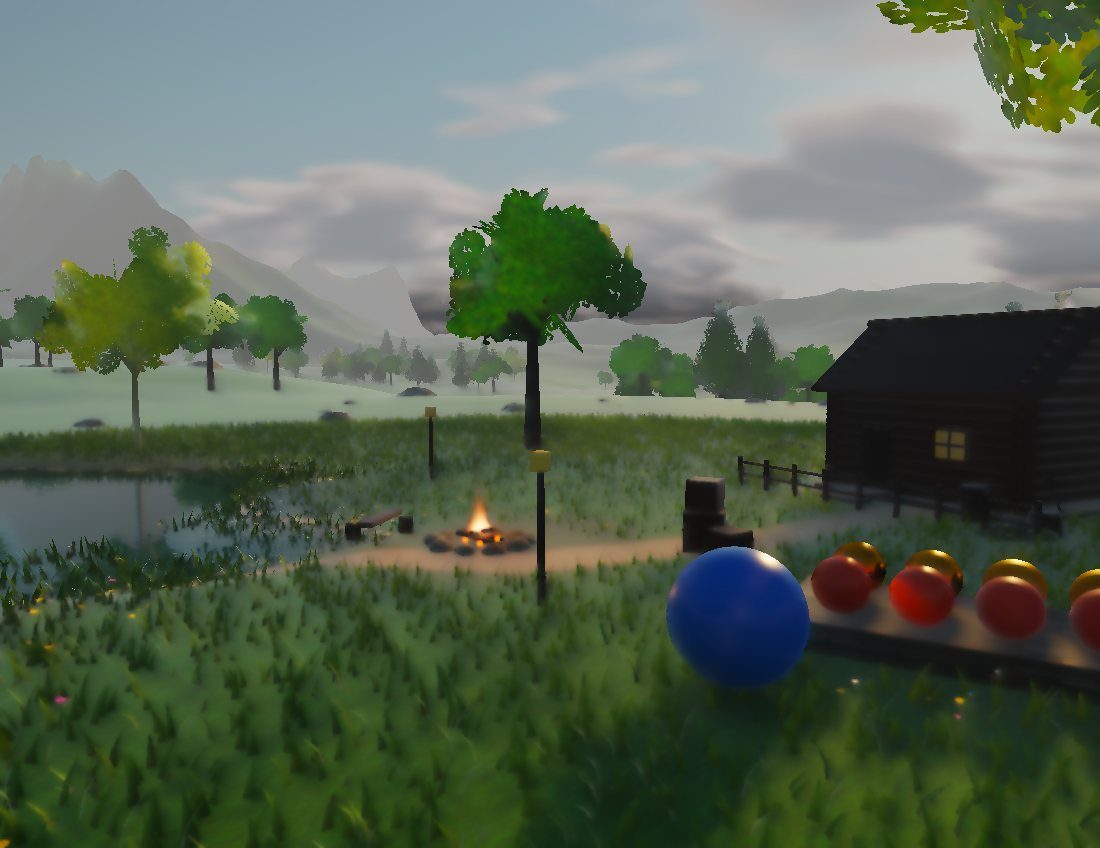
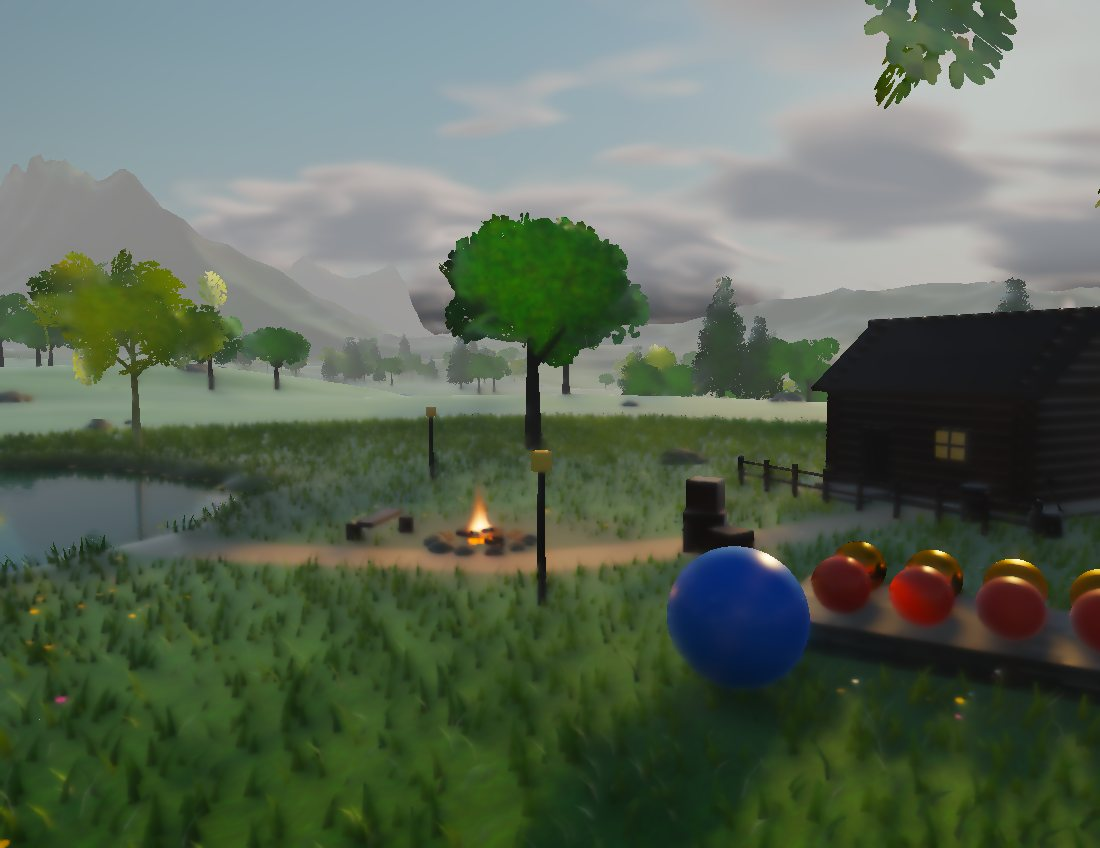
Sky, Sun & Light: a fine terrain patch and natural shore, wind in the grass and the trees

diff --git a/sandbox/sky-and-light.html b/sandbox/sky-and-light.html
@@ -64,7 +64,7 @@ const YOUR = defMat('your ball', 0x2f6fd8, 0.25); const FLOWER_Y = defMat('flowe
 
 // ---- the world as triangles: each shape becomes a list (a BLAS), placed by instances; a few things are perfect spheres
 const blas = [], inst = [], spheres = [];
-function newBlas() { const b = { tris: [], uvs: [], nrms: [], mats: [] }; blas.push(b); return blas.length - 1; }
+function newBlas(pad) { const b = { tris: [], uvs: [], nrms: [], mats: [], pad: pad || 0 }; blas.push(b); return blas.length - 1; }
 const _p = new THREE.Vector3(), _n = new THREE.Vector3(), _nm = new THREE.Matrix3();
 function addPart(bi, geo, mat, matrix) {
   const g = geo.index ? geo.toNonIndexed() : geo; if (!g.attributes.normal) g.computeVertexNormals(); const b = blas[bi], pos = g.attributes.position, nrm = g.attributes.normal, uv = g.attributes.uv; if (matrix) _nm.getNormalMatrix(matrix);
@@ -75,9 +75,21 @@ const compose = (p, ry, s) => new THREE.Matrix4().compose(p, new THREE.Quaternio
 
 // the ground: flat around the camp, rolling hills, then mountains with snow, from noise
 const LAKE = new THREE.Vector3(-19, 0, 11), LAKE_R = 11.5, FIRE = new THREE.Vector3(1.5, 0, 4), CABIN = new THREE.Vector3(10.5, 0, -9);
-function terrainH(x, z) { const d = Math.hypot(x, z); const flat = sstep(38, 130, d); const hills = (fbm(x / 230 + 5, z / 230 + 9, 4) - 0.5) * 2 * 24; const far = sstep(380, 1000, d); const ridge = ridged(x / 760 + 3, z / 760 + 1, 5); const mountains = ridge * ridge * 300 * far; const detail = (fbm(x / 16, z / 16, 3) - 0.5) * 1.4; const dl = Math.hypot(x - LAKE.x, z - LAKE.z); const dip = -3.4 * (1 - sstep(LAKE_R - 4, LAKE_R + 2.5, dl)); return flat * (hills + mountains) + detail * (0.25 + 0.75 * flat) + dip; }
+function terrainH(x, z) { const d = Math.hypot(x, z); const flat = sstep(38, 130, d); const hills = (fbm(x / 230 + 5, z / 230 + 9, 4) - 0.5) * 2 * 24; const far = sstep(380, 1000, d); const ridge = ridged(x / 760 + 3, z / 760 + 1, 5); const mountains = ridge * ridge * 300 * far; const detail = (fbm(x / 16, z / 16, 3) - 0.5) * 1.4; const ang = Math.atan2(z - LAKE.z, x - LAKE.x); const rr = LAKE_R * (1 + 0.5 * (fbm(Math.cos(ang) * 1.6 + 7, Math.sin(ang) * 1.6 + 3, 3) - 0.5)); const dl = Math.hypot(x - LAKE.x, z - LAKE.z) * LAKE_R / rr; const dip = -3.4 * (1 - sstep(LAKE_R - 4, LAKE_R + 2.5, dl)); return flat * (hills + mountains) + detail * (0.25 + 0.75 * flat) + dip; }
 const t0 = performance.now();
-{ const g = new THREE.PlaneGeometry(2600, 2600, 300, 300); g.rotateX(-Math.PI / 2); const pos = g.attributes.position; for (let i = 0; i < pos.count; i++) pos.setY(i, terrainH(pos.getX(i), pos.getZ(i))); g.computeVertexNormals(); const bi = newBlas(); addPart(bi, g, M.TERRAIN); addInst(bi, new THREE.Matrix4()); }
+{ // a coarse grid over the whole valley, with a fine patch stitched in around the camp so the shore and the path are not made of nine-metre triangles
+  const TN = 300, TSIZE = 2600, c = TSIZE / TN, I0 = 138, I1 = 162, SUB = 12; const bi = newBlas(); const B = blas[bi];
+  const tn = (x, z) => { const e = 0.4; const dx = (terrainH(x + e, z) - terrainH(x - e, z)) / (2 * e), dz = (terrainH(x, z + e) - terrainH(x, z - e)) / (2 * e); const l = Math.hypot(dx, 1, dz); return [-dx / l, 1 / l, -dz / l]; };
+  const X = i => -TSIZE / 2 + i * c;
+  const tri = (a, b, d) => { for (const v of [a, b, d]) { B.tris.push(v[0], v[1], v[2]); const nn = tn(v[0], v[2]); B.nrms.push(nn[0], nn[1], nn[2]); B.uvs.push(0, 0); } B.mats.push(M.TERRAIN); };
+  const quad = (p00, p10, p01, p11) => { tri(p00, p01, p10); tri(p10, p01, p11); };
+  const vtx = (x, z) => [x, terrainH(x, z), z];
+  for (let j = 0; j < TN; j++) for (let i = 0; i < TN; i++) { if (i >= I0 && i < I1 && j >= I0 && j < I1) continue; quad(vtx(X(i), X(j)), vtx(X(i + 1), X(j)), vtx(X(i), X(j + 1)), vtx(X(i + 1), X(j + 1))); }
+  // the fine patch: border points take the coarse edge's straight-line height so the two meet exactly
+  const fine = (i, si, j, sj) => { const x = X(i) + si * c / SUB, z = X(j) + sj * c / SUB; const onL = i === I0 && si === 0, onR = i === I1 - 1 && si === SUB, onB = j === I0 && sj === 0, onT = j === I1 - 1 && sj === SUB;
+    if (onL || onR) { const t = sj / SUB; return [x, terrainH(x, X(j)) * (1 - t) + terrainH(x, X(j + 1)) * t, z]; } if (onB || onT) { const t = si / SUB; return [x, terrainH(X(i), z) * (1 - t) + terrainH(X(i + 1), z) * t, z]; } return [x, terrainH(x, z), z]; };
+  for (let j = I0; j < I1; j++) for (let i = I0; i < I1; i++) for (let sj = 0; sj < SUB; sj++) for (let si = 0; si < SUB; si++) quad(fine(i, si, j, sj), fine(i, si + 1, j, sj), fine(i, si, j, sj + 1), fine(i, si + 1, j, sj + 1));
+  addInst(bi, new THREE.Matrix4()); }
 
 // grass: one bent blade, copied tens of thousands of times straight into world space (one flat tree of boxes beats a box per blade)
 const PATH = [[CABIN.x - 1.2, CABIN.z + 3.2], [7, 0], [FIRE.x + 1.8, FIRE.z + 1.2], [-4, 8], [LAKE.x + LAKE_R - 1.5, LAKE.z - 3]];
@@ -85,7 +97,7 @@ function pathDist(x, z) { let d = 1e9; for (let i = 0; i + 1 < PATH.length; i++)
 function clearOf(x, z) { if (pathDist(x, z) < 0.75 + fbm(x * 0.5, z * 0.5, 2) * 0.4) return false; if (terrainH(x, z) < -0.35) return false; if (Math.hypot(x - FIRE.x, z - FIRE.z) < 2.4) return false; const dx = x - CABIN.x, dz = z - CABIN.z, ca = Math.cos(0.55), sa = Math.sin(0.55); const lx = dx * ca - dz * sa, lz = dx * sa + dz * ca; if (Math.abs(lx) < 4.4 && Math.abs(lz) < 3.6) return false; if (Math.abs(x - 13) < 4.2 && Math.abs(z - 6) < 1.8) return false; return true; }
 { const segs = 2, w = 0.03; const P = [], Uv = [], I = []; for (let i = 0; i <= segs; i++) { const t = i / segs, ww = w * (1 - t * 0.85); P.push(-ww, t, t * t * 0.18, ww, t, t * t * 0.18); Uv.push(0, t, 1, t); } for (let i = 0; i < segs; i++) { const a = i * 2; I.push(a, a + 1, a + 2, a + 1, a + 3, a + 2); }
   const g0 = new THREE.BufferGeometry(); g0.setAttribute('position', new THREE.Float32BufferAttribute(P, 3)); g0.setAttribute('uv', new THREE.Float32BufferAttribute(Uv, 2)); g0.setIndex(I); g0.computeVertexNormals(); const g = g0.toNonIndexed();
-  const bp = g.attributes.position.array, bn = g.attributes.normal.array, bu = g.attributes.uv.array, nv = g.attributes.position.count; const bi = newBlas(); const B = blas[bi];
+  const bp = g.attributes.position.array, bn = g.attributes.normal.array, bu = g.attributes.uv.array, nv = g.attributes.position.count; const bi = newBlas(0.22); const B = blas[bi];
   let n = 0, tries = 0; const m = new THREE.Matrix4(), nm = new THREE.Matrix3(), p = new THREE.Vector3(), sc = new THREE.Vector3(), vv = new THREE.Vector3(), vn3 = new THREE.Vector3();
   while (n < 32000 && tries++ < 300000) { const a = rnd() * Math.PI * 2, r = 36 * Math.sqrt(rnd()); const x = Math.cos(a) * r, z = Math.sin(a) * r; if (!clearOf(x, z)) continue; if (rnd() > 0.35 + 0.65 * fbm(x / 9, z / 9, 2)) continue; const far = Math.pow(r / 36, 1.5);
     p.set(x, terrainH(x, z) - 0.02, z); sc.set((1 + rnd() * 0.5) * (1 + 2.2 * far), 0.16 + rnd() * 0.28 + 0.1 * far, 1); m.compose(p, new THREE.Quaternion().setFromAxisAngle(UPV, rnd() * Math.PI * 2), sc); nm.getNormalMatrix(m);
@@ -116,7 +128,7 @@ const treeSpots = { oak: [], pine: [], birch: [] };
 for (let t = 0; t < 2600; t++) { const a = rnd() * Math.PI * 2, r = 52 + Math.pow(rnd(), 0.7) * 400; const x = Math.cos(a) * r, z = Math.sin(a) * r; const y = terrainH(x, z); if (y > 125) continue; const forest = fbm(x / 110 + 8, z / 110 + 2, 3); if (rnd() > (forest - 0.42) * 2.4) continue; const slope = (terrainH(x + 2, z) - terrainH(x - 2, z)) / 4; if (Math.abs(slope) > 0.5) continue; const k = y > 60 ? 'pine' : rnd() < 0.55 ? 'oak' : rnd() < 0.7 ? 'pine' : 'birch'; treeSpots[k].push([x, y, z]); }
 for (const [x, z] of [[-9, -14], [16, 4], [-26, -4], [6, 20], [22, -18], [-4, 26]]) treeSpots[rnd() < 0.6 ? 'oak' : 'birch'].push([x, terrainH(x, z), z]);
 let treeCount = 0;
-for (const kind of ['oak', 'pine', 'birch']) { const spots = treeSpots[kind]; for (let v = 0; v < 2; v++) { const bi = newBlas(); buildTree(bi, kind); const mine = spots.filter((_, i) => i % 2 === v); for (const [x, y, z] of mine) { const s = 0.75 + rnd() * 0.55; addInst(bi, compose(new THREE.Vector3(x, y - 0.25, z), rnd() * Math.PI * 2, new THREE.Vector3(s, s * (0.9 + rnd() * 0.25), s))); treeCount++; } } }
+for (const kind of ['oak', 'pine', 'birch']) { const spots = treeSpots[kind]; for (let v = 0; v < 2; v++) { const bi = newBlas(0.3); buildTree(bi, kind); const mine = spots.filter((_, i) => i % 2 === v); for (const [x, y, z] of mine) { const s = 0.75 + rnd() * 0.55; addInst(bi, compose(new THREE.Vector3(x, y - 0.25, z), rnd() * Math.PI * 2, new THREE.Vector3(s, s * (0.9 + rnd() * 0.25), s))); treeCount++; } } }
 
 // rocks: a lumpy ball with noise on every vertex
 function rockGeo(seed) { const g = new THREE.IcosahedronGeometry(1, 3); const pos = g.attributes.position, v = new THREE.Vector3(); for (let i = 0; i < pos.count; i++) { v.set(pos.getX(i), pos.getY(i), pos.getZ(i)); const n = fbm(v.x * 1.6 + seed, v.y * 1.6 + v.z * 1.3 + seed * 2, 3) - 0.5; v.multiplyScalar(1 + n * 0.55); v.y *= 0.72; pos.setXYZ(i, v.x, v.y, v.z); } g.computeVertexNormals(); return g; }
@@ -190,7 +202,7 @@ let totalTris = 0; for (const b of blas) totalTris += b.mats.length;
 const triRows = Math.ceil(totalTris * 3 / TW), attrRows = Math.ceil(totalTris * 4 / TW); const triData = new Float32Array(TW * triRows * 4), attrData = new Float32Array(TW * attrRows * 4); const nodeChunks = []; let nodeTotal = 0;
 const tb0 = performance.now();
 { let triOff = 0; for (const b of blas) { const n = b.mats.length, bmin = new Float32Array(n * 3), bmax = new Float32Array(n * 3), cen = new Float32Array(n * 3);
-    for (let i = 0; i < n; i++) for (let a = 0; a < 3; a++) { const x0 = b.tris[i * 9 + a], x1 = b.tris[i * 9 + 3 + a], x2 = b.tris[i * 9 + 6 + a]; const lo = Math.min(x0, x1, x2), hi = Math.max(x0, x1, x2); bmin[i * 3 + a] = lo; bmax[i * 3 + a] = hi; cen[i * 3 + a] = (lo + hi) / 2; }
+    for (let i = 0; i < n; i++) for (let a = 0; a < 3; a++) { const x0 = b.tris[i * 9 + a], x1 = b.tris[i * 9 + 3 + a], x2 = b.tris[i * 9 + 6 + a]; const pad = b.pad && (b.mats[i] === M.GRASS || b.mats[i] === M.LEAF_OAK || b.mats[i] === M.LEAF_PINE || b.mats[i] === M.LEAF_BIRCH) ? b.pad : 0; const lo = Math.min(x0, x1, x2) - pad, hi = Math.max(x0, x1, x2) + pad; bmin[i * 3 + a] = lo; bmax[i * 3 + a] = hi; cen[i * 3 + a] = (lo + hi) / 2; }
     const bvh = buildBVH(n, bmin, bmax, cen, 4); b.root = nodeTotal; b.triOff = triOff;
     for (let i = 0; i < bvh.count; i++) { const o = i * 8; if (bvh.nodes[o + 7] > 0) bvh.nodes[o + 3] += triOff; else bvh.nodes[o + 3] += nodeTotal; }
     nodeChunks.push(bvh.nodes.subarray(0, bvh.count * 8)); nodeTotal += bvh.count;
@@ -651,7 +663,7 @@ fn srgb(c0: vec3f) -> vec3f { let c = clamp(c0, vec3f(0.0), vec3f(1.0)); return 
 @fragment fn fs(i: VO) -> @location(0) vec4f { var c = textureSampleLevel(tSrc, samp, i.uv, 0.0).rgb; let bl = textureSampleLevel(tBloom, samp, i.uv, 0.0).rgb; c += bl * D.bloom;
   if (D.shafts > 0.0 && D.sunUp > 0.0) { var sh = vec3f(0.0); let dv = (D.sunUv - i.uv) / 24.0; var uv = i.uv; var wsum = 0.0; for (var k = 0; k < 24; k++) { uv += dv; let w = 1.0 - f32(k) / 24.0; sh += textureSampleLevel(tBloom, samp, uv, 0.0).rgb * w; wsum += w; } let dist = length((D.sunUv - i.uv) * vec2f(1.0, 0.75)); c += sh / wsum * D.shafts * D.sunUp * (1.0 - smoothstep(0.35, 0.9, dist)); }
   c *= D.exposure; if (D.curve == 1.0) { c = aces(c); } else if (D.curve == 2.0) { c = c / (1.0 + c); } let lum = dot(c, vec3f(0.3, 0.59, 0.11)); c = mix(vec3f(lum), c, 1.1); let vd = length((i.uv - 0.5) * vec2f(1.0, 0.85)); c *= 1.0 - 0.28 * smoothstep(0.35, 0.95, vd); return vec4f(srgb(c), 1.0); }`;
-let gpu = null; const prevPV = new THREE.Matrix4(); const fx = { time: 0, dt: 0.016, mist: 0, cover: 0.35, wind: 1, bloom: 0.12, shafts: 0.35, waterOn: true, fireOn: true, chimOn: true, hideFlame: true, rain: 0, fireStrength: 1, smokeAmt: 1 };
+let gpu = null; const prevPV = new THREE.Matrix4(); const fx = { time: 0, dt: 0.016, mist: 0, cover: 0.35, wind: 1, bloom: 0.12, shafts: 0.35, waterOn: true, fireOn: true, chimOn: true, hideFlame: true, rain: 0, fireStrength: 1, smokeAmt: 1, windOn: true };
 // the simulation grids: a wave grid over the lake (with the shore as a wall), and two boxes of air over the fire and the chimney
 const SIM = (() => { const n = 256, size = 44, x0 = LAKE.x - size / 2, z0 = LAKE.z - size / 2; const land = new Uint8Array(n * n); for (let j = 0; j < n; j++) for (let i = 0; i < n; i++) { const x = x0 + (i + 0.5) / n * size, z = z0 + (j + 0.5) / n * size; land[j * n + i] = terrainH(x, z) > -0.55 ? 255 : 0; }
   const fy = terrainH(FIRE.x, FIRE.z); const ca = Math.cos(-0.55), sa = Math.sin(-0.55); const cx = CABIN.x + (3.2 - 1.2) * ca + (-2.3 + 0.9) * sa, cz = CABIN.z - (3.2 - 1.2) * sa + (-2.3 + 0.9) * ca; const cy = terrainH(CABIN.x, CABIN.z) - 0.1 + 5.5;
@@ -672,6 +684,24 @@ fn hAt(q: vec2i) -> f32 { let n = i32(W.n); if (q.x < 0 || q.y < 0 || q.x >= n |
   if (W.rain > 0.0) { let cellId = vec2f(px / 3); let r = h21(cellId + floor(W.time * 40.0)); if (r < W.rain * 0.002) { h -= 0.05; } }
   for (var i = 0; i < 8; i++) { if (f32(i) >= W.nd) { break; } let d = W.drops[i]; let dd = length(vec2f(px) - d.xy * W.n); if (dd < d.z) { h -= d.w * (1.0 - dd / d.z) * (1.0 - dd / d.z); } }
   textureStore(oOut, px, vec4f(h, v, 0.0, 0.0)); }`;
+// wind: every blade of grass and every leaf card is pushed from its rest pose, tips more than roots
+const WG_WIND = `
+struct Params { invPV: mat4x4f, camPos: vec4f, sunDir: vec4f, sunCol: vec4f, moonDir: vec4f, moonCol: vec4f, fogCol: vec4f, skyZen: vec4f, skyHor: vec4f, betaR: vec4f, betaM: vec4f,
+  res: vec2f, loRes: vec2f, giRes: vec2f, jitter: vec2f, sunE: f32, sunfade: f32, mieG: f32, sunCos: f32, night: f32, skyOn: f32, bounceOn: f32, fogD: f32, sunSize: f32, moonSize: f32, noiseShift: f32, blend: f32,
+  tlasRoot: i32, nsph: i32, shadowK: i32, giK: i32, view: i32, frame: i32, shadowStride: i32, giStride: i32,
+  matA: array<vec4f, ${MATN}>, matB: array<vec4f, ${MATN}>, matC: array<vec4f, ${MATN}>, sphA: array<vec4f, 40>, sphB: array<vec4f, 40>, prevPV: mat4x4f, time: f32, mist: f32, cover: f32, wind: f32 };
+@group(0) @binding(0) var<uniform> P: Params; @group(0) @binding(1) var<storage, read> rest: array<vec4f>; @group(0) @binding(2) var<storage, read_write> tris: array<vec4f>; @group(0) @binding(3) var<storage, read> attrs: array<vec4f>;
+fn h21(p: vec2f) -> f32 { return fract(sin(dot(p, vec2f(127.1, 311.7))) * 43758.5453); }
+fn vn(p: vec2f) -> f32 { let i = floor(p); var f = fract(p); f = f * f * (3.0 - 2.0 * f); return mix(mix(h21(i), h21(i + vec2f(1.0, 0.0)), f.x), mix(h21(i + vec2f(0.0, 1.0)), h21(i + vec2f(1.0, 1.0)), f.x), f.y); }
+@compute @workgroup_size(64) fn main(@builtin(global_invocation_id) gid: vec3u) { let ti = i32(gid.x); if (ti * 3 + 2 >= i32(arrayLength(&rest))) { return; } let v0 = rest[ti * 3]; let mid = i32(v0.w); let flag = P.matB[mid].w; if (flag != 2.0 && flag != 4.0) { return; }
+  let t = P.time; let w = P.wind; let a3 = attrs[ti * 4 + 3];
+  if (flag == 2.0) { // grass: a gust field in world space, the tip goes with it
+    for (var k = 0; k < 3; k++) { let r = rest[ti * 3 + k]; let hgt = select(select(a3.z, a3.y, k == 1), a3.x, k == 0); let g = vn(r.xz * 0.35 + vec2f(t * 1.1, t * 0.35)) * 0.7 + vn(r.xz * 1.4 - vec2f(t * 2.3, t * 0.8)) * 0.3; let bend = (g - 0.35) * 0.22 * w * hgt * hgt;
+      let dir = normalize(vec2f(1.0, 0.45) + (vn(r.xz * 0.07 + t * 0.1) - 0.5) * 1.2); tris[ti * 3 + k] = vec4f(r.x + dir.x * bend, r.y - abs(bend) * 0.3, r.z + dir.y * bend, r.w); } }
+  else { // leaves: each card sways as one, higher cards more, with a small flutter
+    let cid = f32(ti / 2); let ph = h21(vec2f(cid, cid * 0.37)) * 6.2831853; let c = (rest[ti * 3].xyz + rest[ti * 3 + 1].xyz + rest[ti * 3 + 2].xyz) / 3.0;
+    let sway = (sin(t * 1.3 + ph + c.y * 0.4) * 0.6 + sin(t * 2.9 + ph * 2.0) * 0.25 + (vn(c.xz * 0.5 + t * 0.6) - 0.5)) * 0.14 * w * smoothstep(0.0, 6.0, c.y);
+    for (var k = 0; k < 3; k++) { let r = rest[ti * 3 + k]; let fl = sin(t * 5.0 + ph + f32(k) * 2.1) * 0.02 * w; tris[ti * 3 + k] = vec4f(r.x + sway + fl, r.y + sway * 0.25, r.z + sway * 0.6 - fl, r.w); } } }`;
 const WG_SIMH = `
 struct FP { org: vec3f, cell: f32, dims: vec3f, dt: f32, src: vec3f, srcR: f32, buoy: f32, heat: f32, smoke: f32, wind: f32, time: f32, isFire: f32, p0: f32, p1: f32 };
 @group(0) @binding(0) var<uniform> F: FP;
@@ -711,7 +741,7 @@ async function startWebGPU() {
   const canvas = document.createElement('canvas'); canvas.style.cssText = 'position:absolute;inset:0;width:100%;height:100%;display:block;'; sb.stage.insertBefore(canvas, sb.stage.firstChild); renderer.domElement.style.opacity = '0';
   const ctx = canvas.getContext('webgpu'); const format = navigator.gpu.getPreferredCanvasFormat(); ctx.configure({ device, format, alphaMode: 'opaque' });
   const mkBuf = (arr, usage) => { const b = device.createBuffer({ size: Math.ceil(arr.byteLength / 16) * 16, usage, mappedAtCreation: true }); new Float32Array(b.getMappedRange()).set(arr); b.unmap(); return b; };
-  const bNodes = mkBuf(nodeData, GPUBufferUsage.STORAGE), bTris = mkBuf(triData, GPUBufferUsage.STORAGE), bAttr = mkBuf(attrData, GPUBufferUsage.STORAGE), bInst = mkBuf(instData, GPUBufferUsage.STORAGE);
+  const bNodes = mkBuf(nodeData, GPUBufferUsage.STORAGE), bTris = mkBuf(triData, GPUBufferUsage.STORAGE), bTris0 = mkBuf(triData, GPUBufferUsage.STORAGE), bAttr = mkBuf(attrData, GPUBufferUsage.STORAGE), bInst = mkBuf(instData, GPUBufferUsage.STORAGE);
   const PARAMS_F = 84 + MATN * 12 + 320 + 20 + 24; const paramsArr = new Float32Array(PARAMS_F), paramsI = new Int32Array(paramsArr.buffer); const bParams = device.createBuffer({ size: PARAMS_F * 4, usage: GPUBufferUsage.UNIFORM | GPUBufferUsage.COPY_DST });
   const layers = [barkTex, birchTex, leafO, leafP, leafB, rockTex, woodTex, stoneTex, groundTex, grassTex]; const texArr = device.createTexture({ size: [256, 256, layers.length], format: 'rgba8unorm', usage: GPUTextureUsage.TEXTURE_BINDING | GPUTextureUsage.COPY_DST | GPUTextureUsage.RENDER_ATTACHMENT });
   layers.forEach((t, i) => device.queue.copyExternalImageToTexture({ source: t.image }, { texture: texArr, origin: [0, 0, i] }, [256, 256]));
@@ -731,6 +761,8 @@ async function startWebGPU() {
     jac: device.createBindGroupLayout({ entries: [{ binding: 0, visibility: GPUShaderStage.COMPUTE, buffer: { type: 'uniform' } }, { binding: 1, visibility: GPUShaderStage.COMPUTE, texture: { viewDimension: '3d', sampleType: 'unfilterable-float' } }, { binding: 2, visibility: GPUShaderStage.COMPUTE, texture: { viewDimension: '3d', sampleType: 'unfilterable-float' } }, { binding: 3, visibility: GPUShaderStage.COMPUTE, storageTexture: { access: 'write-only', format: 'r32float', viewDimension: '3d' } }] }),
     proj: device.createBindGroupLayout({ entries: [{ binding: 0, visibility: GPUShaderStage.COMPUTE, buffer: { type: 'uniform' } }, { binding: 1, visibility: GPUShaderStage.COMPUTE, texture: { viewDimension: '3d', sampleType: 'unfilterable-float' } }, { binding: 2, visibility: GPUShaderStage.COMPUTE, texture: { viewDimension: '3d', sampleType: 'unfilterable-float' } }, { binding: 3, visibility: GPUShaderStage.COMPUTE, storageTexture: { access: 'write-only', format: 'rgba16float', viewDimension: '3d' } }] }) };
   const simPipe = (code, l) => device.createComputePipeline({ layout: device.createPipelineLayout({ bindGroupLayouts: [l] }), compute: { module: device.createShaderModule({ code }), entryPoint: 'main' } });
+  const windL = device.createBindGroupLayout({ entries: [{ binding: 0, visibility: GPUShaderStage.COMPUTE, buffer: { type: 'uniform' } }, { binding: 1, visibility: GPUShaderStage.COMPUTE, buffer: { type: 'read-only-storage' } }, { binding: 2, visibility: GPUShaderStage.COMPUTE, buffer: { type: 'storage' } }, { binding: 3, visibility: GPUShaderStage.COMPUTE, buffer: { type: 'read-only-storage' } }] });
+  const windPipe = simPipe(WG_WIND, windL); const windGroup = device.createBindGroup({ layout: windL, entries: [{ binding: 0, resource: { buffer: bParams } }, { binding: 1, resource: { buffer: bTris0 } }, { binding: 2, resource: { buffer: bTris } }, { binding: 3, resource: { buffer: bAttr } }] });
   const simP = { water: simPipe(WG_WATER, simL.water), adv: simPipe(WG_ADV, simL.adv), div: simPipe(WG_DIV, simL.div), jac: simPipe(WG_JAC, simL.jac), proj: simPipe(WG_PROJ, simL.proj) };
   const wGroups = [0, 1].map(i => device.createBindGroup({ layout: simL.water, entries: [{ binding: 0, resource: { buffer: wBuf } }, { binding: 1, resource: wTex[i].createView() }, { binding: 2, resource: landTex.createView() }, { binding: 3, resource: wTex[1 - i].createView() }] }));
   const volSamp = device.createSampler({ magFilter: 'linear', minFilter: 'linear', addressModeU: 'clamp-to-edge', addressModeV: 'clamp-to-edge', addressModeW: 'clamp-to-edge' });
@@ -741,6 +773,7 @@ async function startWebGPU() {
       proj: [0, 1].map(i => device.createBindGroup({ layout: simL.proj, entries: [E(0, B), E(1, V.vel[1].createView()), E(2, V.pr[0].createView()), E(3, V.vel[0].createView())] })) }; }
   const drops = []; window.__drops = drops;
   function simStep(enc, dt, cur) {
+    if (fx.windOn) { const c = enc.beginComputePass(); c.setPipeline(windPipe); c.setBindGroup(0, windGroup); c.dispatchWorkgroups(Math.ceil(totalTris / 64)); c.end(); }
     if (fx.waterOn) { const a = new Float32Array(44); a.set([SIM.water.n, SIM.water.size, dt, fx.time, fx.wind, fx.rain, fx.wind, 0]); const nd = Math.min(drops.length, 8); for (let i = 0; i < nd; i++) { const d = drops[i]; a.set([d.u, d.v, d.r, d.s], 8 + i * 4); } a[40] = nd; drops.length = 0; device.queue.writeBuffer(wBuf, 0, a);
       for (let sub = 0; sub < 2; sub++) { const src = (cur + sub) & 1; const c = enc.beginComputePass(); c.setPipeline(simP.water); c.setBindGroup(0, wGroups[src]); c.dispatchWorkgroups(Math.ceil(WN / 8), Math.ceil(WN / 8)); c.end(); } }
     for (const k of ['fire', 'chim']) { if (!fx[k === 'fire' ? 'fireOn' : 'chimOn']) continue; const V = vols[k], G = vGroups[k], d = SIM[k].dims, S2 = SIM[k];
@@ -823,7 +856,7 @@ s1.slider('Haze strength', { min: 0.001, max: 0.03, step: 0.001, value: 0.005, f
 s1.slider('Glow around the sun', { min: 0.5, max: 0.97, step: 0.01, value: 0.8, fmt: v => (+v).toFixed(2) }, v => { atm.g = v; placeSun(); });
 s1.slider('Sun size (a bigger sun makes softer shadows)', { min: 0.2, max: 6, step: 0.1, value: 0.54, unit: '°' }, v => { atm.sunDeg = v; placeSun(); });
 s1.slider('Cloud cover', { min: 0, max: 1, step: 0.02, value: 0.35, fmt: v => Math.round(v * 100) + ' %' }, v => { fx.cover = v; });
-s1.slider('Wind (clouds and water)', { min: 0, max: 3, step: 0.1, value: 1 }, v => { fx.wind = v; });
+s1.slider('Wind (grass, trees, clouds and water)', { min: 0, max: 3, step: 0.1, value: 1 }, v => { fx.wind = v; });
 s1.toggle('a moon at night', true, v => { moonOn = v; placeSun(); });
 const sunHRead = s1.readout('sun height'), sunCRead = s1.readout('sun colour and strength, from the sky');
 
@@ -855,6 +888,7 @@ s5.slider('Glow around bright things (bloom)', { min: 0, max: 0.5, step: 0.01, v
 s5.slider('Sun shafts', { min: 0, max: 1, step: 0.02, value: 0.35, fmt: v => (+v).toFixed(2) }, v => { fx.shafts = v; });
 
 const s7 = sb.panel.section('07 · Fluids', 'The lake is a grid of water heights that push on their neighbours, so waves travel, bounce off the shore and cross. The fire and the chimney are boxes of air: heat rises, the flow is kept from piling up, and smoke and heat ride along. What you see is a ray marched through those boxes.');
+s7.toggle('wind in the grass and the trees', true, v => { fx.windOn = v; });
 s7.toggle('simulate the water', true, v => { fx.waterOn = v; });
 s7.slider('Rain', { min: 0, max: 1, step: 0.05, value: 0, fmt: v => (+v).toFixed(2) }, v => { fx.rain = v; });
 s7.note('Click on the lake to drop a stone in.');
